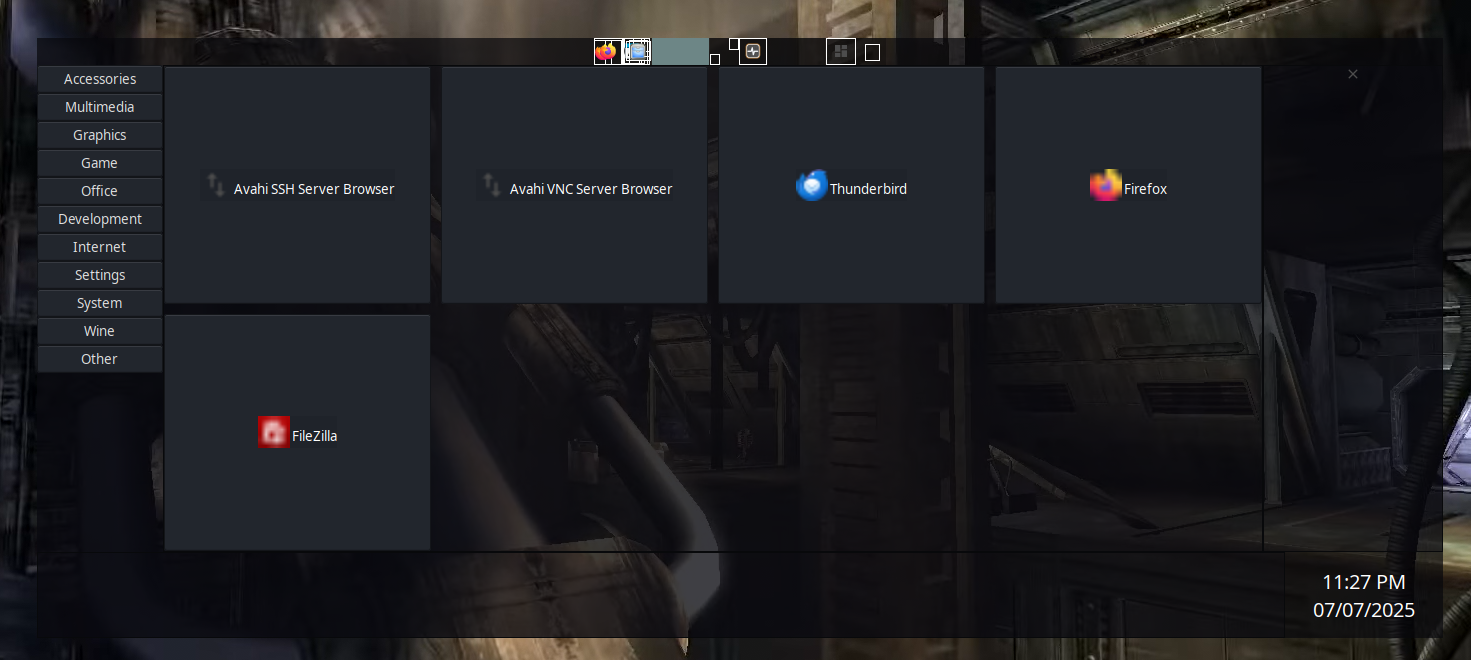
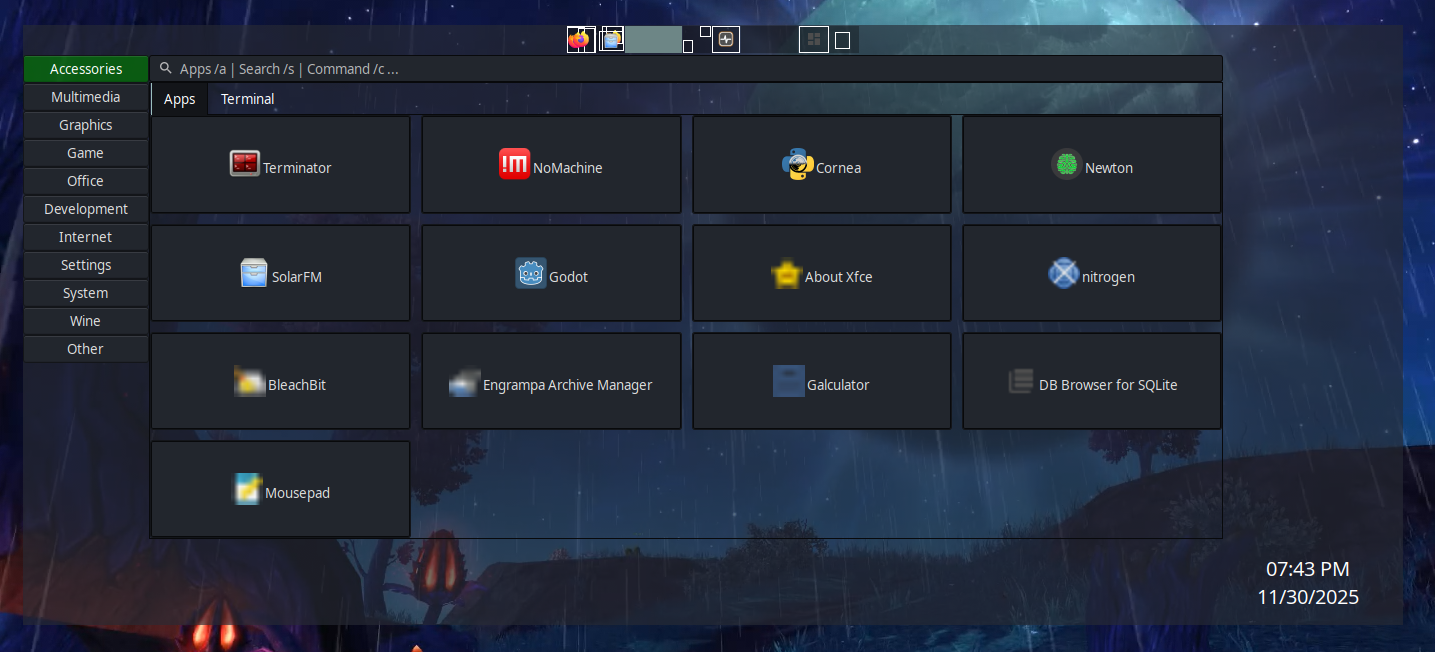
Updated images and readme

diff --git a/user_config/usr/share/utop/stylesheet.css b/user_config/usr/share/utop/stylesheet.css
@@ -1,13 +1,30 @@
 /* ----  Make most desired things base transparent  ---- */
-/* ----  Make most desired things base transparent  ---- */
 popover,
 popover > box,
+notebook,
+header,
+stack,
+scrolledwindow,
+viewport {
+    background: rgba(0, 0, 0, 0.0);
+    color: rgba(255, 255, 255, 1);
+}
+
+tab {
+    color: rgba(255, 255, 255, 1);
+}
+
+tab:checked {
+    border-bottom-color: rgba(125, 125, 125, 1);
+}
+
+
 .main-window,
 .base-container,
 .body-container,
 .center-container,
 .header-container,
-.footer-containerm,
+.footer-container,
 .left-containerm,
 .right-container {
     background: rgba(0, 0, 0, 0.0);
@@ -15,7 +32,7 @@ popover > box,
 }
 
 .base-container {
-    background: rgba(0, 0, 0, 0.64);
+    background: rgba(39, 43, 52, 0.64);
     margin: 10px;
 }
 

diff --git a/README.md b/README.md
@@ -15,3 +15,4 @@ sudo apt-get install python3.8 wget python3-setproctitle python3-gi python3-pyxd
 # Images
 ![1 UTop single pane. ](images/pic1.png)
 ![2 UTop pane filled. ](images/pic2.png)
+![2 UTop terminal tab. ](images/pic3.png)
